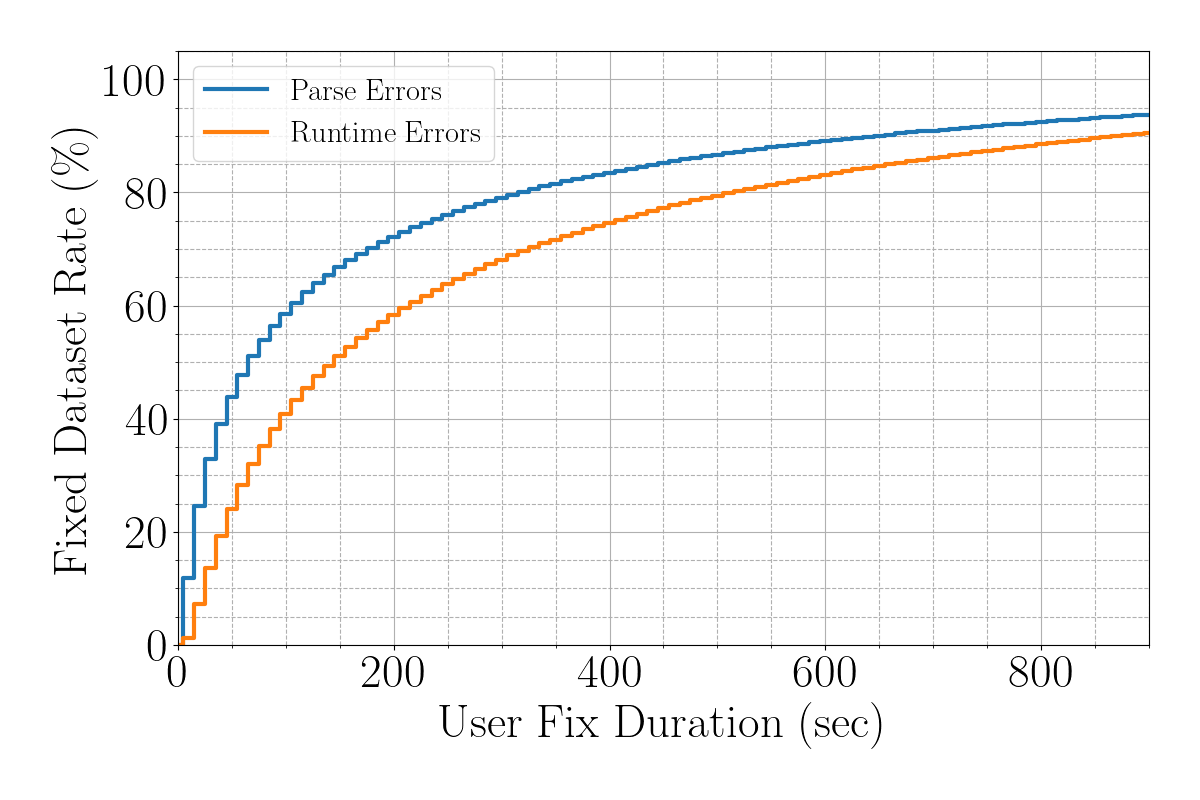
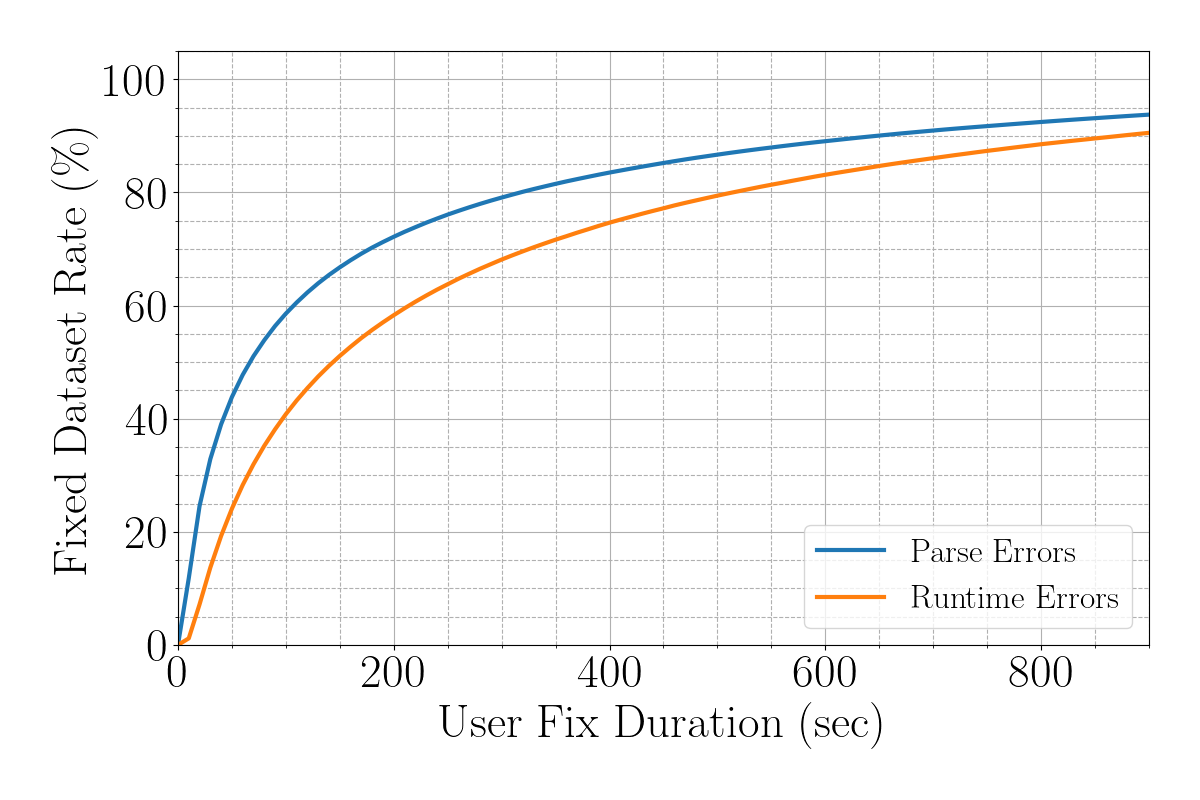
Added OOPSLA new plot

diff --git a/src/plot_errors_and_times.py b/src/plot_errors_and_times.py
@@ -197,14 +197,14 @@ if __name__ == "__main__":
             runtime_times[x] = y
 
     # ax.step(xs, total_ys, where='mid', linewidth=3.0, label='All Errors')
-    ax.line(xs, parse_ys, where='mid', linewidth=3.0, label='Parse Errors')
-    ax.line(xs, runtime_ys, where='mid', linewidth=3.0, label='Runtime Errors')
+    ax.plot(xs, parse_ys, linewidth=3.0, label='Parse Errors')
+    ax.plot(xs, runtime_ys, linewidth=3.0, label='Runtime Errors')
 
     ax.set_xlim([0, MAX_SECS // 2])
     ax.set_ylim([0, 105])
 
     ax.grid(True, which='both')
-    ax.legend(loc='upper left')
+    ax.legend(loc='lower right')
     ax.set_xlabel('User Fix Duration (sec)')
     ax.set_ylabel('Fixed Dataset Rate (\%)')
 
